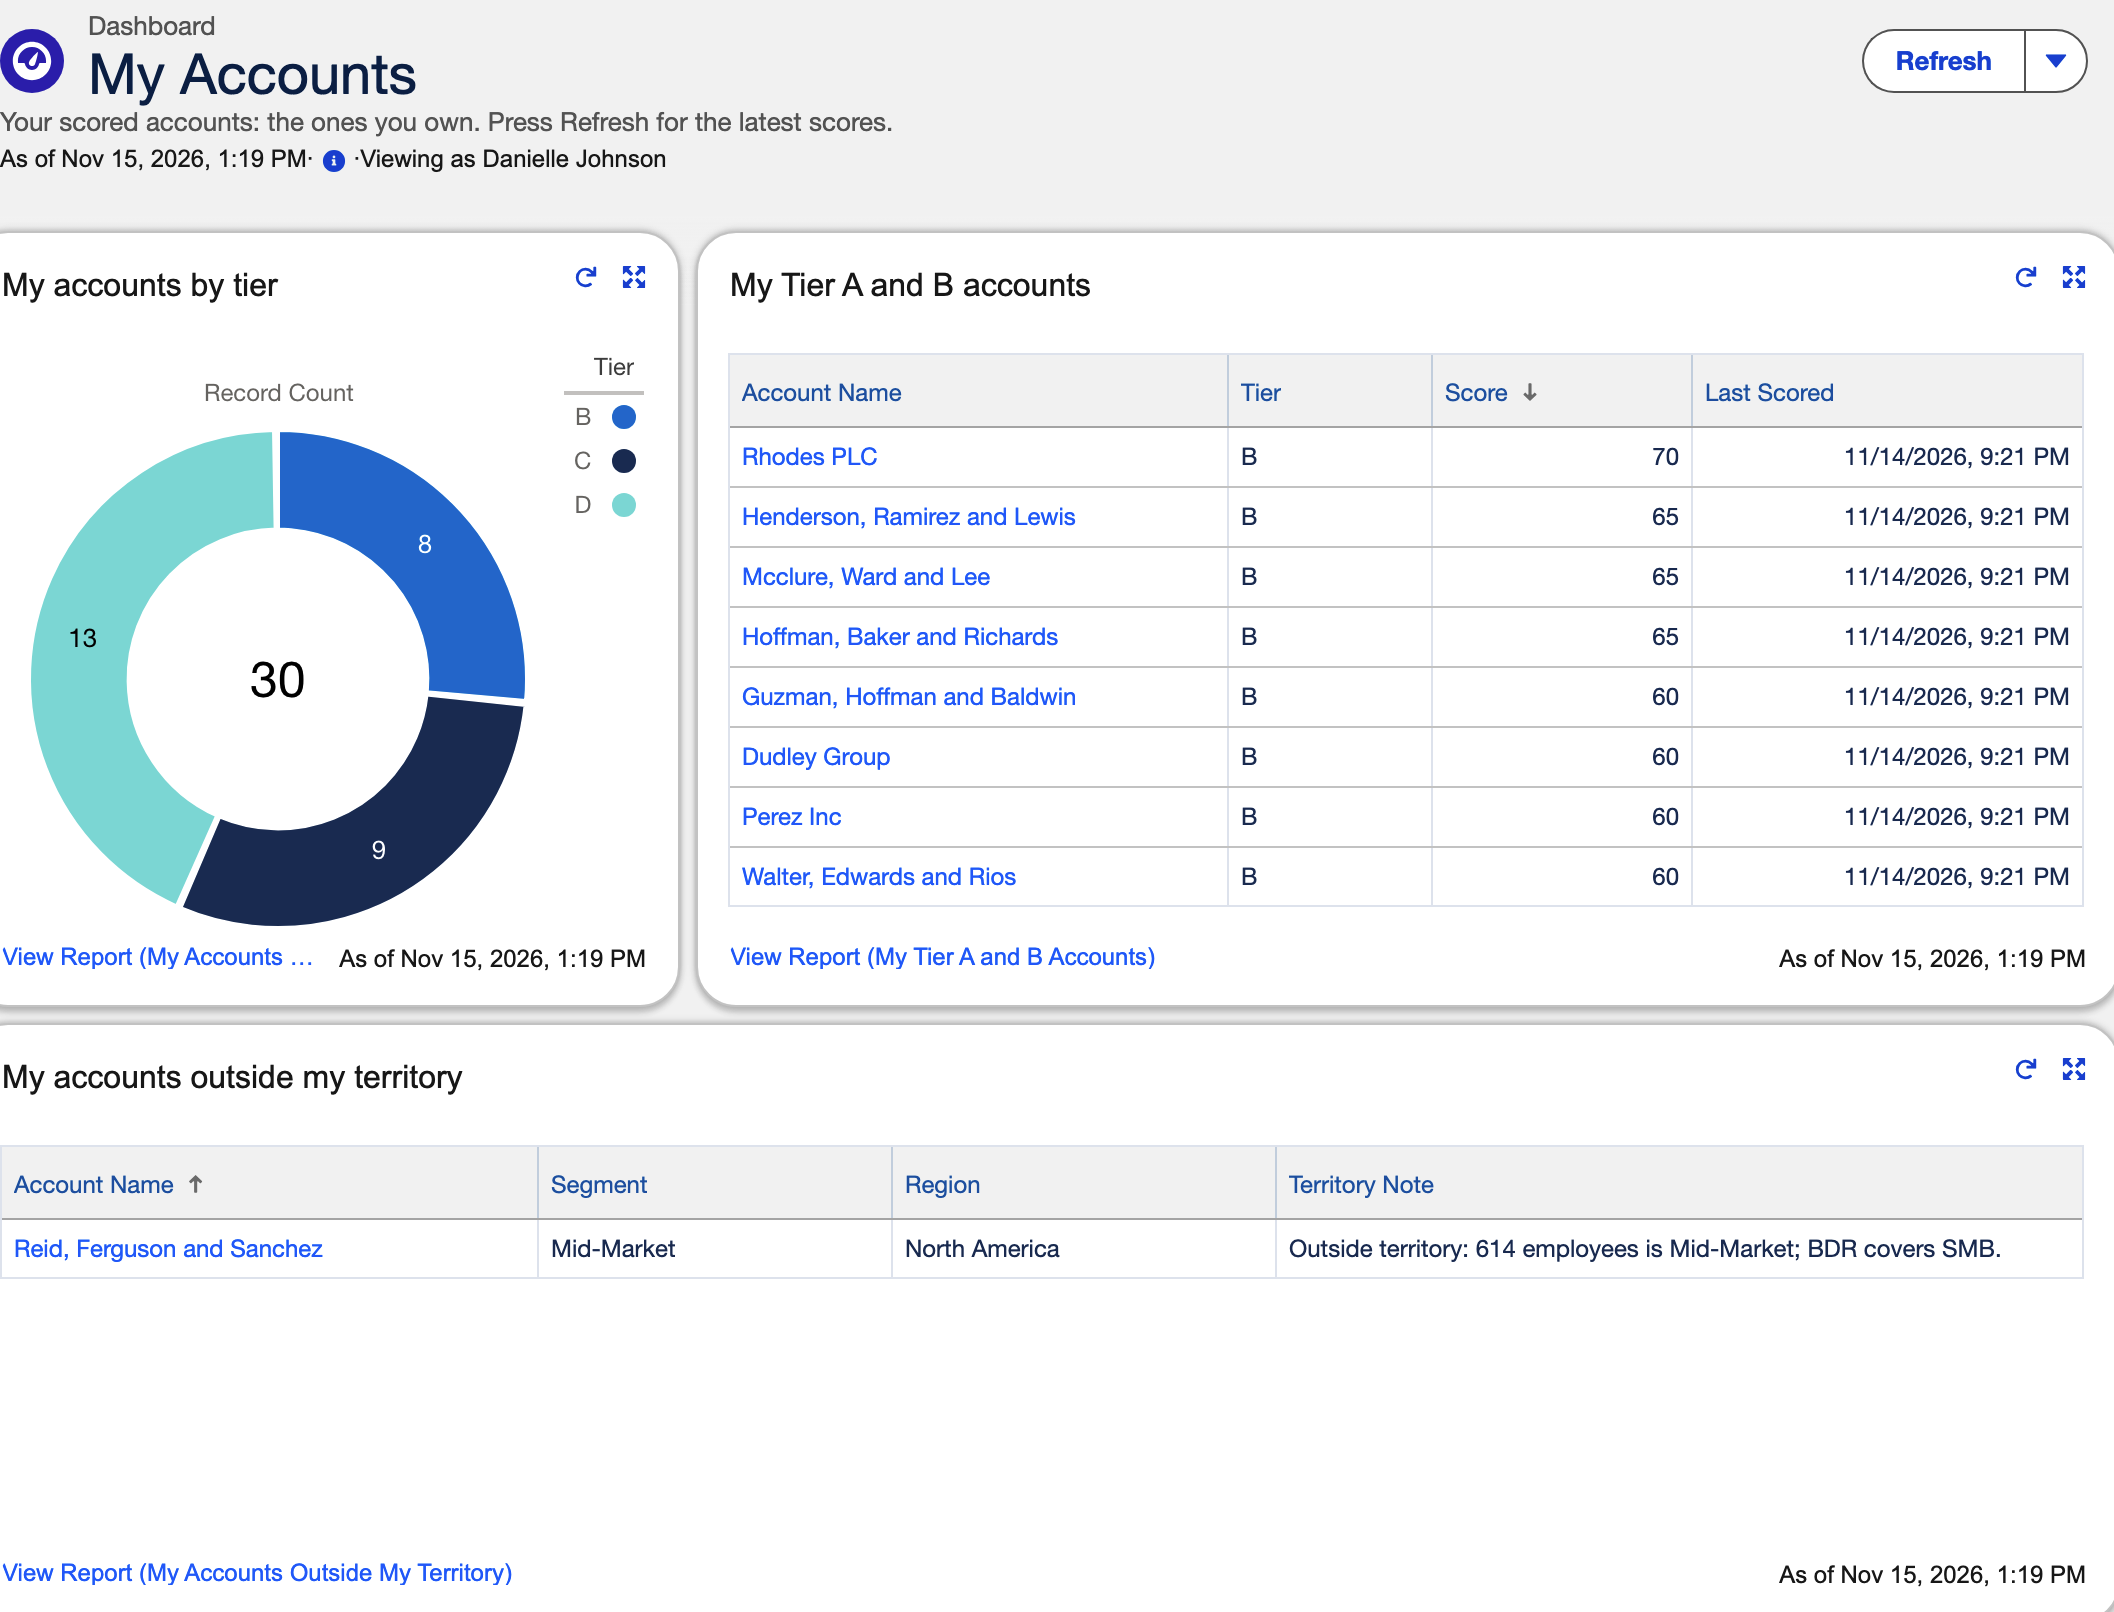
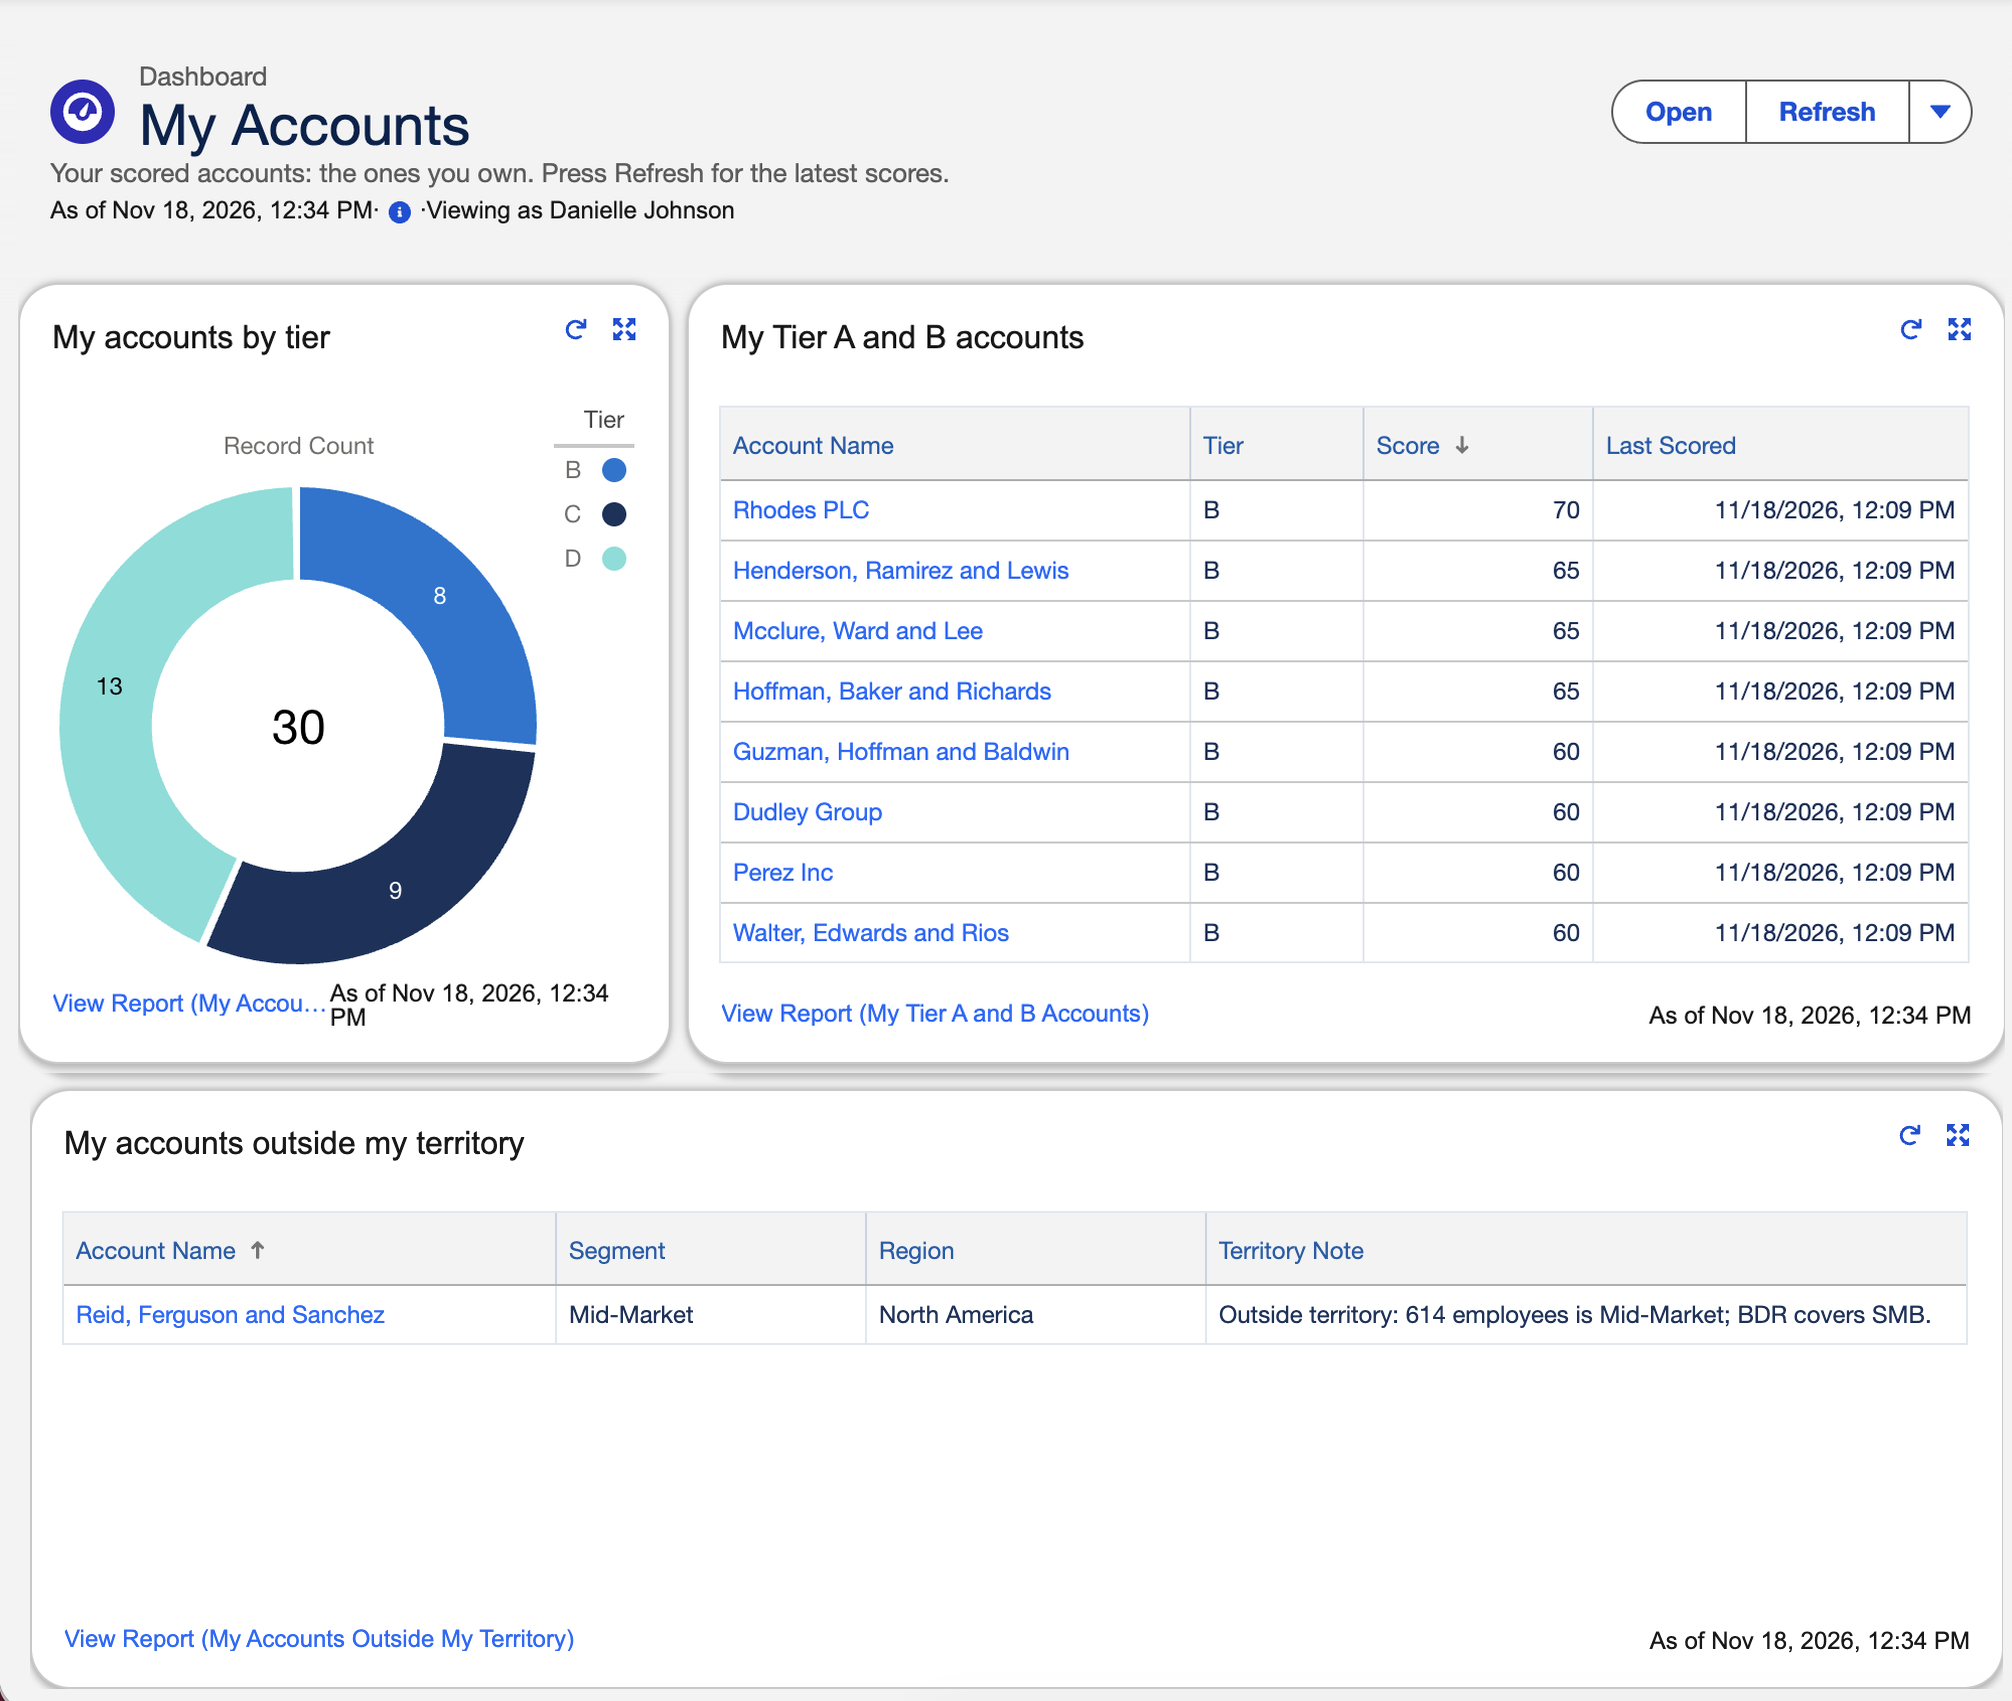
docs: record the Nov 18 org run, retake dashboard pictures, remove the case study (#16)
* docs: record the Nov 18 org run and update the case study

The needs-review flag and every-reason change are now proven by a real run in the Developer org, so the docs drop the 'not yet proven' caveats and the case study uses the real figures.

* docs: remove the case study page

The repository and its README already tell the story, so a separate case study only duplicated them.

* docs: retake the dashboard pictures after the Nov 18 run

Adds a picture of the new Needs review table and ticks the spec check that it lists the six flagged accounts.

diff --git a/README.md b/README.md
@@ -4,11 +4,11 @@
 
 ▶ Demo video: _link added at release_ · Latest release: _v0.1.0 (in progress)_ · [Changelog](CHANGELOG.md) · [Spec](SPEC.md) · [All rights reserved](LICENSE)
 
-**Status:** the scoring engine, the territory check and the Salesforce write-back are built and tested, and the write-back is proven in a Salesforce Developer org with 1,800 sample accounts, including a write that Salesforce refused halfway. The Run button on GitHub is proven with real runs at 300 and at 1,800 accounts, each including a forced failure. The weekday schedule has run by itself on GitHub, on November 16 and 17, each time writing all 1,800 accounts with none failed. GitHub started both runs hours after 7:00 AM. The two Salesforce dashboards are built and seen working in the Developer org, one of them as two real BDR users. Two newer changes are built and tested against a stand-in for Salesforce but not yet run in the org: every account lists every reason behind its score, and an account that fits no segment is flagged for review instead of stopping the run. The demo video is still to come before v0.1.0 is released.
+**Status:** the scoring engine, the territory check and the Salesforce write-back are built and tested, and the write-back is proven in a Salesforce Developer org with 1,800 sample accounts, including a write that Salesforce refused halfway. The Run button on GitHub is proven with real runs at 300 and at 1,800 accounts, each including a forced failure. The weekday schedule has run by itself on GitHub, on November 16 and 17, each time writing all 1,800 accounts with none failed. GitHub started both runs hours after 7:00 AM. The two Salesforce dashboards are built and seen working in the Developer org, one of them as two real BDR users. Two newer changes are proven in the org by a real run on November 18: every account lists every reason behind its score, and an account that fits no segment is flagged for review instead of stopping the run. That run ended `Scored 1794, needs review 6, written 1800, failed 0.`, and its counts match direct queries in the org. The demo video is still to come before v0.1.0 is released.
 
-![The team dashboard: 1,800 accounts scored, 90 outside their BDR's territory, accounts by tier as columns, and stacked bars by segment and by region, each split by tier.](docs/dashboard-team.png)
+![The team dashboard: 1,794 accounts scored, 90 outside their BDR's territory, accounts by tier as columns, and stacked bars by segment and by region, each split by tier.](docs/dashboard-team.png)
 
-_The team dashboard, for a manager: every scored account by tier, segment and region. These pictures show the numbers before six sample accounts were made too small to score (1,800 scored then, 1,794 now); they are retaken after the next real run. More under [Dashboards](#dashboards)._
+_The team dashboard, for a manager: every scored account by tier, segment and region. Pictures taken after the November 18 run. More under [Dashboards](#dashboards)._
 
 ## Architecture at a glance
 
@@ -89,9 +89,11 @@ Both dashboards, their reports, the Home page and the app are files in `force-ap
 
 ![My Accounts as one BDR: a ring of 30 accounts by tier, a table of eight Tier B accounts sorted by score with the time each was last scored, and one account outside the BDR's territory with the engine's note.](docs/dashboard-my-accounts.png)
 
-**Team Account Scoring, for a manager.** Eight tiles: accounts scored, accounts outside their BDR's territory, accounts by tier, by segment and by region (each split by tier), Tier A and B accounts for each BDR, every Tier A account with its BDR, segment, region, score and the time it was last scored, and, along the bottom, every account that needs review with its BDR, region and the reason. The pictures here show the seven tiles from before the Needs review table was added.
+**Team Account Scoring, for a manager.** Eight tiles: accounts scored, accounts outside their BDR's territory, accounts by tier, by segment and by region (each split by tier), Tier A and B accounts for each BDR, every Tier A account with its BDR, segment, region, score and the time it was last scored, and, along the bottom, every account that needs review with its BDR, region and the reason.
 
 ![The third row of the team dashboard: one bar for each BDR showing their Tier A and Tier B accounts, most first, beside a table of Tier A accounts with BDR, segment, region, score and last scored time.](docs/dashboard-team-bdr.png)
+
+![The Needs review table along the bottom of the team dashboard: the six accounts with fewer than 50 employees, each with its BDR, region, the reason and when it was last scored.](docs/dashboard-needs-review.png)
 
 Every BDR in the sample holds exactly 30 accounts, so a count of accounts per BDR would be 60 equal bars. The "by BDR" tile counts Tier A and B accounts instead: whose book is richest right now.
 
@@ -154,10 +156,6 @@ Three limits worth knowing. The check compares against the BDR in the sample dat
 | Segment, Region, Territory Status, Territory Note | Engine | works out and writes on every run, so a change made by hand is overwritten |
 | Name, BDR | Salesforce (in this demo, loaded once from sample data) | never overwrites |
 | Account Owner | Salesforce | sets once, when it first creates an account and a Salesforce user has the BDR's name; never changes it afterwards |
-
-## Case study
-
-Why it was built this way, how it was checked and where its limits are: [docs/case-study.md](docs/case-study.md).
 
 ## Roadmap
 

diff --git a/CHANGELOG.md b/CHANGELOG.md
@@ -10,13 +10,13 @@ Only list an item here once it's built and checked.
 
 ## [Unreleased]
 
-Work towards v0.1.0. Everything listed here is built, tested and checked, except the items marked "not yet proven in the org", which are built and tested against a stand-in for Salesforce. Still to come before v0.1.0 is released: deploying `force-app/` and a real run for those items, new dashboard pictures, and the demo video. The weekday schedule has now run by itself on GitHub twice, on November 16 and 17, writing all 1,800 accounts each time with none failed; GitHub started both runs hours after 7:00 AM.
+Work towards v0.1.0. Everything listed here is built, tested and checked. The items for the Needs review flag and every reason were proven in the org by a real run on November 18, which ended `Scored 1794, needs review 6, written 1800, failed 0.` The dashboard pictures were retaken after that run. Still to come before v0.1.0 is released: the demo video. The weekday schedule has now run by itself on GitHub twice, on November 16 and 17, writing all 1,800 accounts each time with none failed; GitHub started both runs hours after 7:00 AM.
 
 ### Added
 
 Needs review
-- An account that fits no segment, because it has fewer than 50 employees or no employee count, is no longer an error that stops the run (not yet proven in the org). It is not scored; it is written to Salesforce with Territory Status "Needs review", a note that says why, and its Score, Tier, Segment and Top Reasons empty (cleared, if it was scored before). The run carries on with every other account, and its last line reads, for example, `Scored 1794, needs review 6, written 1800, failed 0.` A broken file, such as a duplicate id, still stops the run before anything is sent.
-- A "Needs review" table along the bottom of the team dashboard (not yet proven in the org): each flagged account with its BDR, region, the reason and when it was last scored, from a new Accounts Needing Review report.
+- An account that fits no segment, because it has fewer than 50 employees or no employee count, is no longer an error that stops the run. It is not scored; it is written to Salesforce with Territory Status "Needs review", a note that says why, and its Score, Tier, Segment and Top Reasons empty (cleared, if it was scored before). The run carries on with every other account, and its last line reads, for example, `Scored 1794, needs review 6, written 1800, failed 0.` A broken file, such as a duplicate id, still stops the run before anything is sent.
+- A "Needs review" table along the bottom of the team dashboard: each flagged account with its BDR, region, the reason and when it was last scored, from a new Accounts Needing Review report.
 - The connection check also confirms that the org holds every picklist value in `force-app/`. A value added in the files but not yet deployed, such as "Needs review", fails the check while it is still only reading, before any write.
 - Six of the 1,800 sample accounts (ACC-0075, then every 300th) have fewer than 50 employees, so the demo shows the flag: 1,794 accounts are scored and 6 need review. Every other account is unchanged.
 
@@ -62,7 +62,7 @@ Tests
 
 ### Changed
 
-- Every reason shows (not yet proven in the org): an account lists every rule it matched, not only the top three. An 85-point account now shows four reasons. Rules version 2; no weight, band or tier cutoff changed, so every score and tier is the same as before.
+- Every reason shows: an account lists every rule it matched, not only the top three. An 85-point account now shows four reasons. Rules version 2; no weight, band or tier cutoff changed, so every score and tier is the same as before.
 - Tier A needs at least two of the three timing signals. The earlier wording said one; full fit plus one timing signal is 70 points, which is Tier B.
 - Segment and Region are written to Salesforce on every run. They were first-load only before the engine worked them out itself.
 - The roadmap in the README is grouped into v0.2, v0.3 and v0.4.

diff --git a/SPEC.md b/SPEC.md
@@ -178,7 +178,8 @@ Salesforce credentials live in GitHub Actions secrets and a local `.env` file th
 ## Done when (v0.1 acceptance)
 
 - [x] `python run_local.py` prints tier counts for each segment that add up to 1,794, plus 6 accounts that need review, and the top 3 accounts in each segment with BDR, region and every reason each. It also prints the territory check, with each flagged account and its note: 1,686 in territory, 90 outside, 18 not checked and 6 needing review. Those numbers follow from the agreed pattern and are confirmed when the data is generated.
-- [ ] After `force-app/` is deployed, a real run writes the six accounts that need review with no score or tier, ends `Scored 1794, needs review 6, written 1800, failed 0.`, and the team dashboard's Needs review table lists exactly those six.
+- [x] After `force-app/` is deployed, a real run writes the six accounts that need review with no score or tier and ends `Scored 1794, needs review 6, written 1800, failed 0.` (November 18).
+- [x] The team dashboard's Needs review table lists exactly those six accounts (November 18).
 - [x] `pytest` passes, including the segment band edges (199, 200, 699, 700, 999, 1,000, 5,000, 5,001).
 - [x] Two runs in a row leave exactly 1,800 scored accounts in Salesforce, with no duplicates.
 - [x] One bad record among the 1,800 that the engine's own check catches leaves nothing written.
